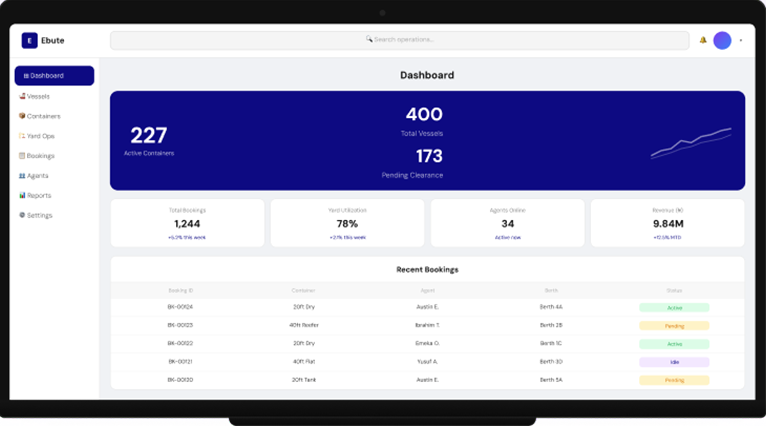
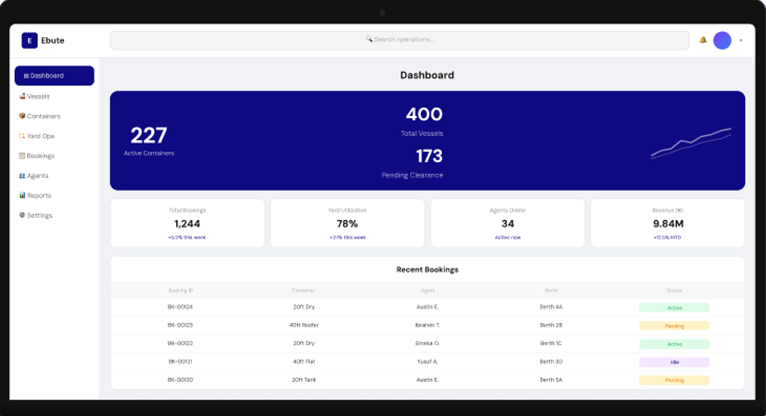
ebute fix

diff --git a/src/components/intro-card/IntroCard.jsx b/src/components/intro-card/IntroCard.jsx
@@ -14,7 +14,7 @@ const IntroCard = ({ title, description, image, imageAlt }) => {
       <div className="w-full lg:h-screen flex flex-col text-center items-center justify-center gap-12 mt-12 lg:-mt-24">
         <div className="flex flex-col items-center gap-2 md:gap-0">
           <span className="w-fit flex items-center bg-purple-50/10 border border-blue-500/20 text-xs tracking-wide uppercase text-blue-500/70 p-2 rounded-full">
-            <IconPointFilled size={12} className="mr-1" />
+            <IconPointFilled size={14} className="mr-1 animate-pulse" />
             Terminal Management System
           </span>
           <h2 className="font-black uppercase text-[clamp(72px,12vw,160px)] leading-0.9">
@@ -36,12 +36,12 @@ const IntroCard = ({ title, description, image, imageAlt }) => {
           </div>
         </div>
       </div>
-      <div className="w-full md:full md:max-w-250 md:mx-auto border border-white/20 shadow-sm shadow-white/20 md:-mt-40 rounded-xl">
+      <div className="w-full md:full md:max-w-250 md:mx-auto bg-linear-to-br from-blue-500 via-transparent via-50% to-[#EB5017] p-0.5 shadow-sm shadow-white/20 mt-12 lg:-mt-40 rounded-xl">
         <img
           loading="lazy"
           src={heroImg}
           alt={imageAlt}
-          className="w-full h-full"
+          className="w-full h-full rounded-lg"
         />
       </div>
     </section>
@@ -52,7 +52,7 @@ export default IntroCard;
 
 const InfoCard = ({ label, value }) => {
   return (
-    <div className="flex flex-col gap-2 p-6">
+    <div className="flex flex-col gap-2 p-3 lg:p-6">
       <span
         className="text-xs tracking-widest text-muted-foreground
       "